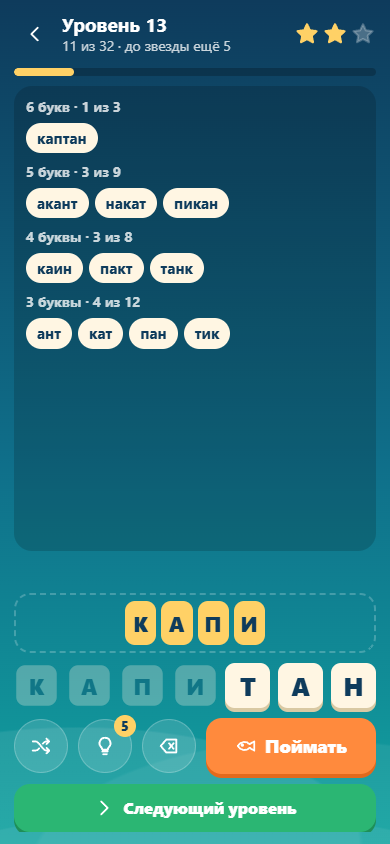
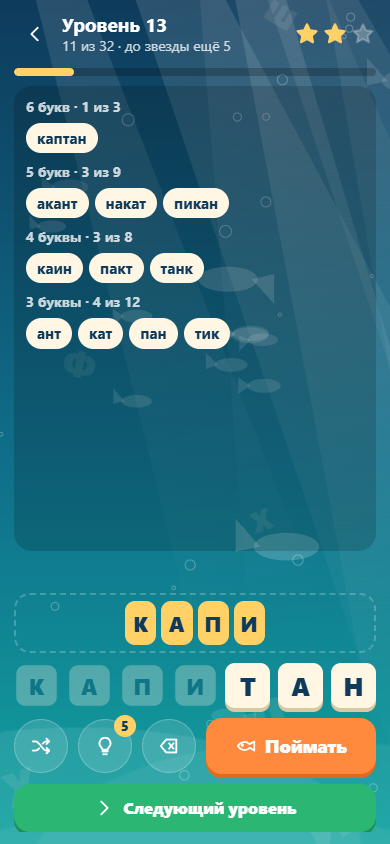
Add living underwater backdrop and records screen
Canvas backdrop: light rays, fish on three depths, schools, bubbles and
drifting letters; pixel density capped for phones, static frame when the
player prefers reduced motion. Records: personal bests, daily catch history,
entry to the VK leaderboard.

diff --git a/src/ui/backdrop.ts b/src/ui/backdrop.ts
@@ -1,0 +1,212 @@
+// Живой фон: бесконечная подводная сцена. Лучи света, стайки рыб на трёх глубинах,
+// пузырьки и всплывающие буквы. Всё рисуется на одном холсте и никогда не повторяется.
+
+interface Fish {
+  x: number;
+  y: number;
+  size: number;
+  speed: number; // пикселей в секунду, знак задаёт направление
+  phase: number;
+  depth: number; // 0 — далеко (бледная, медленная), 1 — близко
+  bob: number;
+}
+
+interface Bubble {
+  x: number;
+  y: number;
+  r: number;
+  speed: number;
+  phase: number;
+}
+
+interface Letter {
+  x: number;
+  y: number;
+  ch: string;
+  size: number;
+  speed: number;
+  spin: number;
+  angle: number;
+  phase: number;
+}
+
+const LETTERS = 'АБВГДЕЖЗИКЛМНОПРСТУФХЦЧШЭЮЯ';
+const rand = (a: number, b: number) => a + Math.random() * (b - a);
+
+export function startBackdrop(canvas: HTMLCanvasElement): void {
+  const c = canvas.getContext('2d');
+  if (!c) return;
+  const calm = window.matchMedia('(prefers-reduced-motion: reduce)').matches;
+  let w = 0;
+  let h = 0;
+  let fish: Fish[] = [];
+  let bubbles: Bubble[] = [];
+  let letters: Letter[] = [];
+
+  const newFish = (depth: number, x?: number, y?: number, dir?: number): Fish => {
+    const d = dir ?? (Math.random() < 0.5 ? 1 : -1);
+    return {
+      x: x ?? rand(0, w),
+      y: y ?? rand(h * 0.08, h * 0.92),
+      size: 10 + depth * 26 + rand(0, 8),
+      speed: d * (14 + depth * 34 + rand(0, 10)),
+      phase: rand(0, 6.28),
+      depth,
+      bob: rand(4, 12),
+    };
+  };
+
+  /** Стайка: несколько рыб плывут рядом в одну сторону. */
+  const newSchool = (offscreen: boolean): Fish[] => {
+    const depth = rand(0.1, 0.75);
+    const dir = Math.random() < 0.5 ? 1 : -1;
+    const n = Math.floor(rand(4, 9));
+    const cx = offscreen ? (dir > 0 ? -rand(60, 260) : w + rand(60, 260)) : rand(0, w);
+    const cy = rand(h * 0.12, h * 0.85);
+    return Array.from({ length: n }, () => {
+      const f = newFish(depth, cx + rand(-70, 70), cy + rand(-45, 45), dir);
+      f.size *= 0.6;
+      f.speed = dir * (22 + depth * 30);
+      return f;
+    });
+  };
+
+  const newBubble = (anywhere: boolean): Bubble => ({
+    x: rand(0, w),
+    y: anywhere ? rand(0, h) : h + rand(10, 80),
+    r: rand(1.5, 6),
+    speed: rand(18, 55),
+    phase: rand(0, 6.28),
+  });
+
+  const newLetter = (anywhere: boolean): Letter => ({
+    x: rand(0, w),
+    y: anywhere ? rand(0, h) : h + rand(30, 120),
+    ch: LETTERS[Math.floor(Math.random() * LETTERS.length)],
+    size: rand(22, 54),
+    speed: rand(6, 16),
+    spin: rand(-0.25, 0.25),
+    angle: rand(-0.5, 0.5),
+    phase: rand(0, 6.28),
+  });
+
+  const resize = (): void => {
+    // На телефонах большой холст съедает память, поэтому плотность пикселей ограничена.
+    const dpr = Math.min(window.devicePixelRatio || 1, 1.5);
+    w = window.innerWidth;
+    h = window.innerHeight;
+    canvas.width = Math.round(w * dpr);
+    canvas.height = Math.round(h * dpr);
+    c.setTransform(dpr, 0, 0, dpr, 0, 0);
+    const area = (w * h) / 100_000; // плотность сцены одинакова на любом экране
+    fish = [
+      ...Array.from({ length: Math.round(2 + area * 0.9) }, () => newFish(rand(0.05, 1))),
+      ...Array.from({ length: Math.round(1 + area * 0.35) }, () => newSchool(false)).flat(),
+    ];
+    bubbles = Array.from({ length: Math.round(10 + area * 3) }, () => newBubble(true));
+    letters = Array.from({ length: Math.round(4 + area * 1.1) }, () => newLetter(true));
+  };
+
+  const drawRays = (t: number): void => {
+    for (let i = 0; i < 6; i++) {
+      const sway = Math.sin(t * 0.12 + i * 1.9) * 0.12;
+      const x = w * (0.08 + i * 0.17) + Math.sin(t * 0.07 + i) * 40;
+      const width = 50 + (i % 3) * 38;
+      const len = h * (0.75 + (i % 2) * 0.2);
+      const dx = Math.tan(0.28 + sway) * len;
+      const g = c.createLinearGradient(x, 0, x + dx, len);
+      const a = 0.05 + 0.035 * Math.sin(t * 0.3 + i * 2.3);
+      g.addColorStop(0, `rgba(255,255,255,${a + 0.05})`);
+      g.addColorStop(1, 'rgba(255,255,255,0)');
+      c.fillStyle = g;
+      c.beginPath();
+      c.moveTo(x, -10);
+      c.lineTo(x + width, -10);
+      c.lineTo(x + width * 2.2 + dx, len);
+      c.lineTo(x + dx - width * 0.6, len);
+      c.closePath();
+      c.fill();
+    }
+  };
+
+  const drawFish = (f: Fish, t: number): void => {
+    const dir = Math.sign(f.speed);
+    const wag = Math.sin(t * (3 + f.depth * 3) + f.phase) * 0.35;
+    const s = f.size;
+    c.save();
+    c.translate(f.x, f.y + Math.sin(t * 0.8 + f.phase) * f.bob);
+    c.scale(dir, 1);
+    c.fillStyle = `rgba(255,255,255,${0.07 + f.depth * 0.13})`;
+    c.beginPath();
+    c.ellipse(0, 0, s, s * 0.42, 0, 0, 6.2832);
+    c.fill();
+    c.beginPath(); // хвост виляет
+    c.moveTo(-s * 0.8, 0);
+    c.lineTo(-s * 1.55, -s * 0.5 + wag * s);
+    c.lineTo(-s * 1.55, s * 0.5 + wag * s);
+    c.closePath();
+    c.fill();
+    c.restore();
+  };
+
+  const step = (dt: number, t: number): void => {
+    for (const f of fish) {
+      f.x += f.speed * dt;
+      const m = f.size * 3;
+      if (f.speed > 0 && f.x > w + m) Object.assign(f, newFish(f.depth, -m, undefined, 1));
+      else if (f.speed < 0 && f.x < -m) Object.assign(f, newFish(f.depth, w + m, undefined, -1));
+    }
+    for (const b of bubbles) {
+      b.y -= b.speed * dt;
+      b.x += Math.sin(t * 1.5 + b.phase) * 12 * dt;
+      if (b.y < -10) Object.assign(b, newBubble(false));
+    }
+    for (const l of letters) {
+      l.y -= l.speed * dt;
+      l.angle += l.spin * dt;
+      l.x += Math.sin(t * 0.4 + l.phase) * 8 * dt;
+      if (l.y < -60) Object.assign(l, newLetter(false));
+    }
+  };
+
+  const draw = (t: number): void => {
+    c.clearRect(0, 0, w, h);
+    drawRays(t);
+    c.textAlign = 'center';
+    c.textBaseline = 'middle';
+    for (const l of letters) {
+      c.save();
+      c.translate(l.x, l.y);
+      c.rotate(l.angle);
+      c.fillStyle = 'rgba(255,246,227,0.09)';
+      c.font = `800 ${l.size}px system-ui, sans-serif`;
+      c.fillText(l.ch, 0, 0);
+      c.restore();
+    }
+    for (const f of fish) drawFish(f, t);
+    c.strokeStyle = 'rgba(255,255,255,0.28)';
+    c.lineWidth = 1;
+    for (const b of bubbles) {
+      c.beginPath();
+      c.arc(b.x, b.y, b.r, 0, 6.2832);
+      c.stroke();
+    }
+  };
+
+  resize();
+  window.addEventListener('resize', resize);
+
+  if (calm) {
+    draw(0); // игрок просил меньше движения: показываем неподвижную сцену
+    return;
+  }
+  let last = performance.now();
+  const frame = (now: number): void => {
+    const dt = Math.min(0.05, (now - last) / 1000); // после сворачивания вкладки сцена не «прыгает»
+    last = now;
+    step(dt, now / 1000);
+    draw(now / 1000);
+    requestAnimationFrame(frame);
+  };
+  requestAnimationFrame(frame);
+}

diff --git a/src/ui/app.ts b/src/ui/app.ts
@@ -1,7 +1,7 @@
 import levels from '../data/levels.json';
-import { DAILY_SECONDS, dailyWord, dayNumber, msToNextDay } from '../core/daily';
+import { DAILY_SECONDS, dailyWord, dayLabel, dayNumber, msToNextDay } from '../core/daily';
 import { Round } from '../core/round';
-import { type Save, nextStreak } from '../core/save';
+import { HISTORY_MAX, type Save, nextStreak } from '../core/save';
 import { plural, points, starsFor } from '../core/words';
 import { type Platform, saveLocal } from '../platform/platform';
 import { renderCard } from './card';
@@ -146,7 +146,7 @@ export class App {
       dailyCard,
       journeyCard,
       h('div', { class: 'tools' },
-        this.platform.name === 'vk' ? btn('tool', 'Рейтинг', 'trophy', () => void this.platform.leaderboard(s.total)) : null,
+        btn('tool', 'Рекорды', 'trophy', () => this.showRecords()),
         btn('tool', 'Позвать друзей', 'users', () => void this.platform.invite()),
         soundBtn,
       ),
@@ -181,6 +181,48 @@ export class App {
         h('div', { class: 'title' }, h('b', { text: 'Уровни' }), h('span', { class: 'sub', text: `Звёзд: ${this.totalStars}` })),
       ),
       h('div', { class: 'grid' }, ...cells),
+    ));
+  }
+
+  // ---------- рекорды ----------
+
+  private showRecords(): void {
+    const s = this.save;
+    const stat = (value: number, label: string) => h('div', { class: 'stat' }, h('b', { text: String(value) }), h('span', { text: label }));
+    const best = Math.max(0, ...s.history.map((r) => r.words));
+    const rows = s.history.slice().reverse().map((r) =>
+      h('tr', { class: r.words === best && best > 0 ? 'best' : '' },
+        h('td', { text: dayLabel(r.day) }),
+        h('td', { class: 'w', text: r.word.toUpperCase() }),
+        h('td', { text: String(r.words) }),
+        h('td', { text: String(r.score) }),
+      ),
+    );
+    const vk = this.platform.name === 'vk';
+    this.show(h('div', { class: 'screen records' },
+      h('header', { class: 'top' },
+        btn('ghost', '', 'back', () => this.showMenu()),
+        h('div', { class: 'title' }, h('b', { text: 'Рекорды' }), h('span', { class: 'sub', text: 'Твои лучшие уловы' })),
+      ),
+      h('div', { class: 'statgrid' },
+        stat(s.bestDaily, 'рекорд слова дня'),
+        stat(Math.max(s.bestStreak, s.streak), plural(Math.max(s.bestStreak, s.streak), 'день подряд', 'дня подряд', 'дней подряд')),
+        stat(s.total, 'очков всего'),
+        stat(this.totalStars, plural(this.totalStars, 'звезда', 'звезды', 'звёзд')),
+      ),
+      vk
+        ? btn('primary', 'Рейтинг игроков', 'trophy', () => void this.platform.leaderboard(s.total))
+        : h('p', { class: 'foot', text: 'Общий рейтинг игроков и друзей доступен в игре во ВКонтакте.' }),
+      h('div', { class: 'card' },
+        h('h3', { text: 'Уловы по дням' }),
+        rows.length
+          ? h('table', { class: 'table' },
+              h('thead', {}, h('tr', {}, h('th', { text: 'День' }), h('th', { class: 'w', text: 'Слово' }), h('th', { text: 'Слов' }), h('th', { text: 'Очки' }))),
+              h('tbody', {}, ...rows),
+            )
+          : h('p', { text: 'Здесь появятся твои результаты слова дня. Сыграй сегодня, чтобы открыть таблицу.' }),
+      ),
+      btn('secondary', 'Позвать друзей', 'users', () => void this.platform.invite()),
     ));
   }
 
@@ -288,6 +330,9 @@ export class App {
       s.streak = nextStreak(s.streak, s.lastDailyDay, d.day);
       s.lastDailyDay = d.day;
       s.bestDaily = Math.max(s.bestDaily, d.words.length);
+      s.bestStreak = Math.max(s.bestStreak, s.streak);
+      const round = this.dailyRound();
+      s.history = [...s.history.filter((r) => r.day !== d.day), { day: d.day, word: round.source, words: round.found.length, score: round.score }].slice(-HISTORY_MAX);
       s.hints += 1;
       this.persist();
       play('star');

diff --git a/src/style.css b/src/style.css
@@ -205,3 +205,18 @@ p { color: var(--soft); }
   .btn.primary { font-size: 17px; padding: 0 12px; }
   .card { padding: 14px; }
 }
+
+/* ---------- живой фон ---------- */
+#bg { position: fixed; inset: 0; width: 100%; height: 100%; pointer-events: none; }
+
+/* ---------- рекорды ---------- */
+.statgrid { display: grid; grid-template-columns: 1fr 1fr; gap: 10px; flex: none; }
+.stat { display: flex; flex-direction: column; align-items: center; padding: 12px 8px; border-radius: 18px; background: var(--glass); border: 1.5px solid var(--line); text-align: center; }
+.stat b { font-size: 30px; color: var(--gold); line-height: 1.1; }
+.stat span { font-size: 14px; color: var(--soft); }
+.table { width: 100%; border-collapse: collapse; font-size: 15px; font-variant-numeric: tabular-nums; }
+.table th { font-size: 13px; font-weight: 700; color: var(--soft); text-align: right; padding: 4px 6px; }
+.table td { padding: 8px 6px; text-align: right; border-top: 1px solid var(--line); font-weight: 700; }
+.table .w { text-align: left; letter-spacing: .5px; }
+.table td:first-child, .table th:first-child { text-align: left; color: var(--soft); font-weight: 600; }
+.table tr.best td { color: var(--gold); }

diff --git a/src/core/save.ts b/src/core/save.ts
@@ -7,6 +7,15 @@ export interface DailyState {
   done: boolean;
 }
 
+export interface DailyRecord {
+  day: number;
+  word: string;
+  words: number;
+  score: number;
+}
+
+export const HISTORY_MAX = 30;
+
 export interface Save {
   v: 1;
   savedAt: number;
@@ -23,13 +32,16 @@ export interface Save {
   streak: number;
   lastDailyDay: number;
   bestDaily: number;
+  bestStreak: number;
+  /** последние уловы дня, свежие в конце */
+  history: DailyRecord[];
   favAsked: boolean;
 }
 
 export function newSave(): Save {
   return {
     v: 1, savedAt: 0, hints: 3, tutorialDone: false, sound: true, total: 0, unlocked: 0,
-    levels: {}, stars: {}, daily: null, streak: 0, lastDailyDay: -1, bestDaily: 0, favAsked: false,
+    levels: {}, stars: {}, daily: null, streak: 0, lastDailyDay: -1, bestDaily: 0, bestStreak: 0, history: [], favAsked: false,
   };
 }
 

diff --git a/tests/core.test.ts b/tests/core.test.ts
@@ -92,3 +92,11 @@ describe('сохранение', () => {
     expect(nextStreak(3, 11, 11)).toBe(3);
   });
 });
+
+describe('даты', () => {
+  it('номер дня превращается в подпись по московскому календарю', async () => {
+    const { dayLabel } = await import('../src/core/daily');
+    expect(dayLabel(dayNumber(Date.UTC(2026, 10, 11, 12)))).toBe('11.11');
+    expect(dayLabel(dayNumber(Date.UTC(2026, 10, 11, 22)))).toBe('12.11'); // после 21:00 UTC в Москве уже завтра
+  });
+});

diff --git a/src/main.ts b/src/main.ts
@@ -2,9 +2,11 @@ import './style.css';
 import { newSave, newer, parseSave } from './core/save';
 import { loadLocal, pickPlatform } from './platform/platform';
 import { App } from './ui/app';
+import { startBackdrop } from './ui/backdrop';
 
 async function boot(): Promise<void> {
   const root = document.getElementById('app')!;
+  startBackdrop(document.getElementById('bg') as HTMLCanvasElement);
   try {
     const platform = await pickPlatform();
     const [dictText, cloud] = await Promise.all([

diff --git a/src/core/daily.ts b/src/core/daily.ts
@@ -10,6 +10,13 @@ export function dayNumber(now: number): number {
   return Math.floor((now + MSK) / DAY) - EPOCH_DAY;
 }
 
+/** Дата дня в виде «11.11». */
+export function dayLabel(day: number): string {
+  const d = new Date((day + EPOCH_DAY) * DAY);
+  const p = (n: number) => String(n).padStart(2, '0');
+  return `${p(d.getUTCDate())}.${p(d.getUTCMonth() + 1)}`;
+}
+
 export function msToNextDay(now: number): number {
   return DAY - ((now + MSK) % DAY);
 }

diff --git a/index.html b/index.html
@@ -9,6 +9,7 @@
   </head>
   <body>
     <div class="waves" aria-hidden="true"></div>
+    <canvas id="bg" aria-hidden="true"></canvas>
     <main id="app"><p class="boot">Готовим удочки…</p></main>
     <script type="module" src="/src/main.ts"></script>
   </body>
